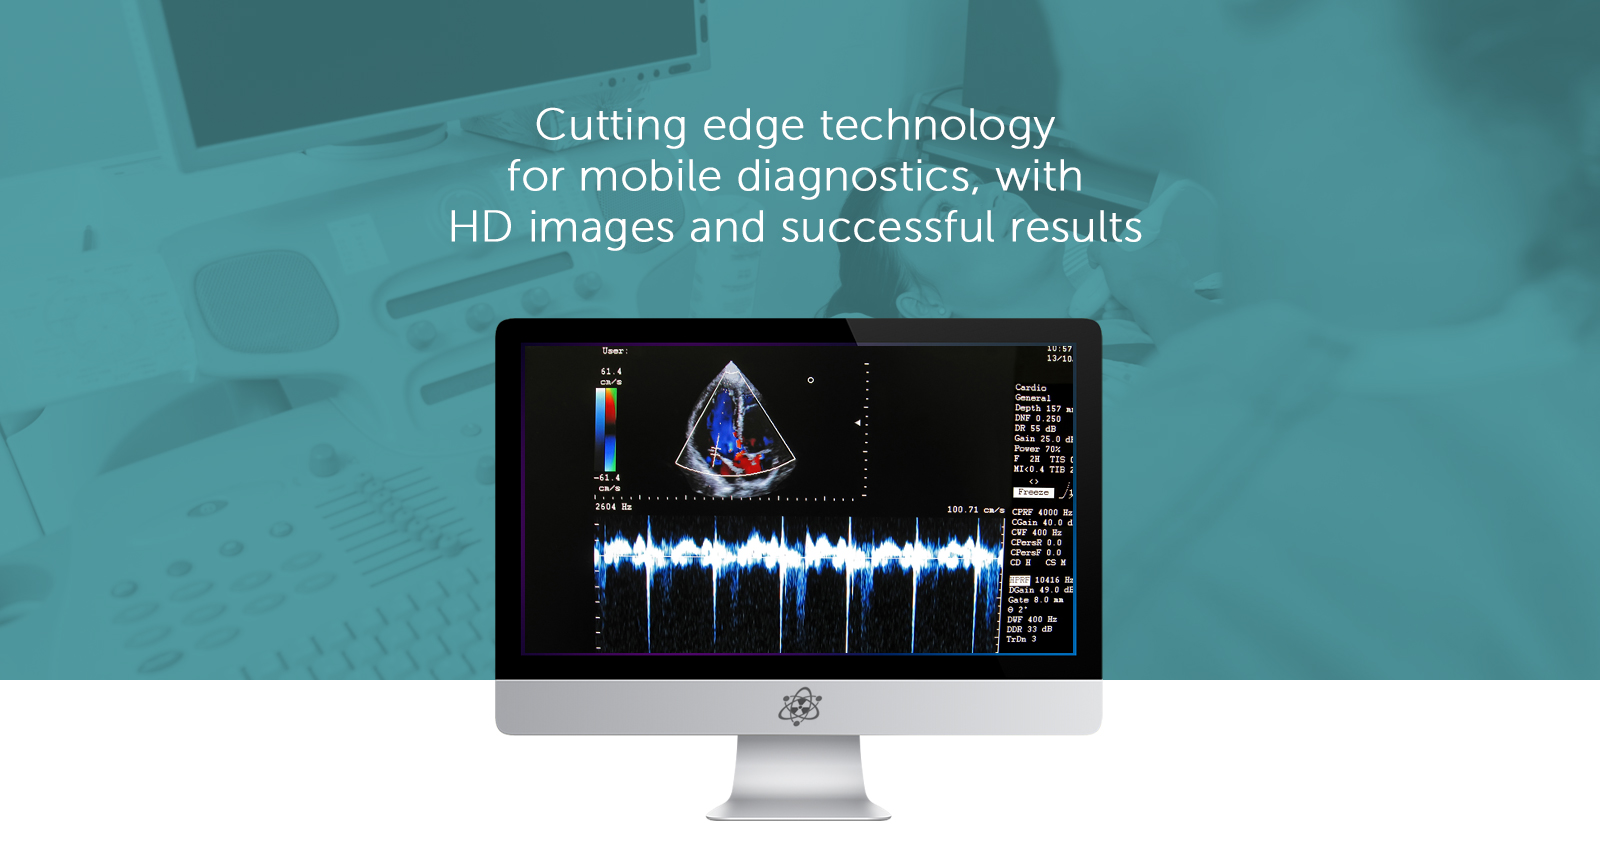
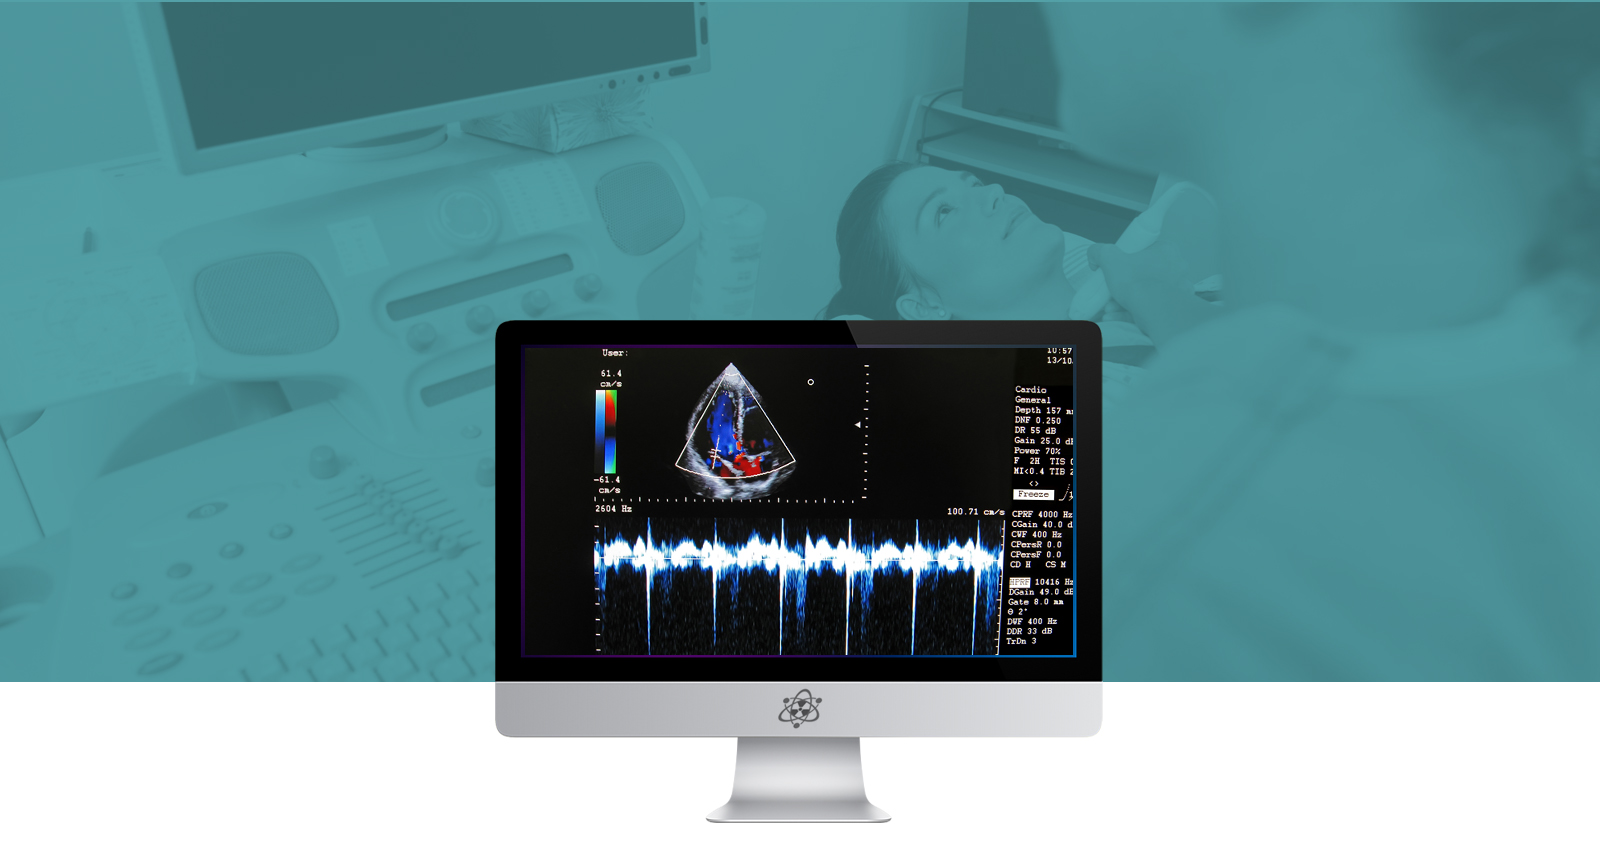
home

diff --git a/index.html b/index.html
@@ -41,9 +41,13 @@
 			</div>
 		</div>
 	</section>
-	<section class="container-fluid">
-		<div  class="row">
-			<!--  <img id="img_home" src="img/home.jpg" alt=""> -->
+	<section class="container-fluid home">
+		<div  class="row pad_format">
+			<div>
+				Cutting edge technology <br>
+				for mobile diagnostics, with
+				HD images and successful results
+			</div>
 		</div>
 	</section>
 

diff --git a/css/style.css b/css/style.css
@@ -82,6 +82,21 @@ h1{
 	font-size: 40px;
 }
 
+section.home{
+	background: url("../img/home.jpg");
+    min-height: 860px;
+    background-repeat: no-repeat;
+    background-position: center top;
+}
+
+section.home div{
+	color: #FFF;
+    font-size: 45px;
+    width: 632px;
+    text-align: center;
+    margin-Top: 32px;
+}
+
 /**
 #title_about{
 	color: #1769b1;
